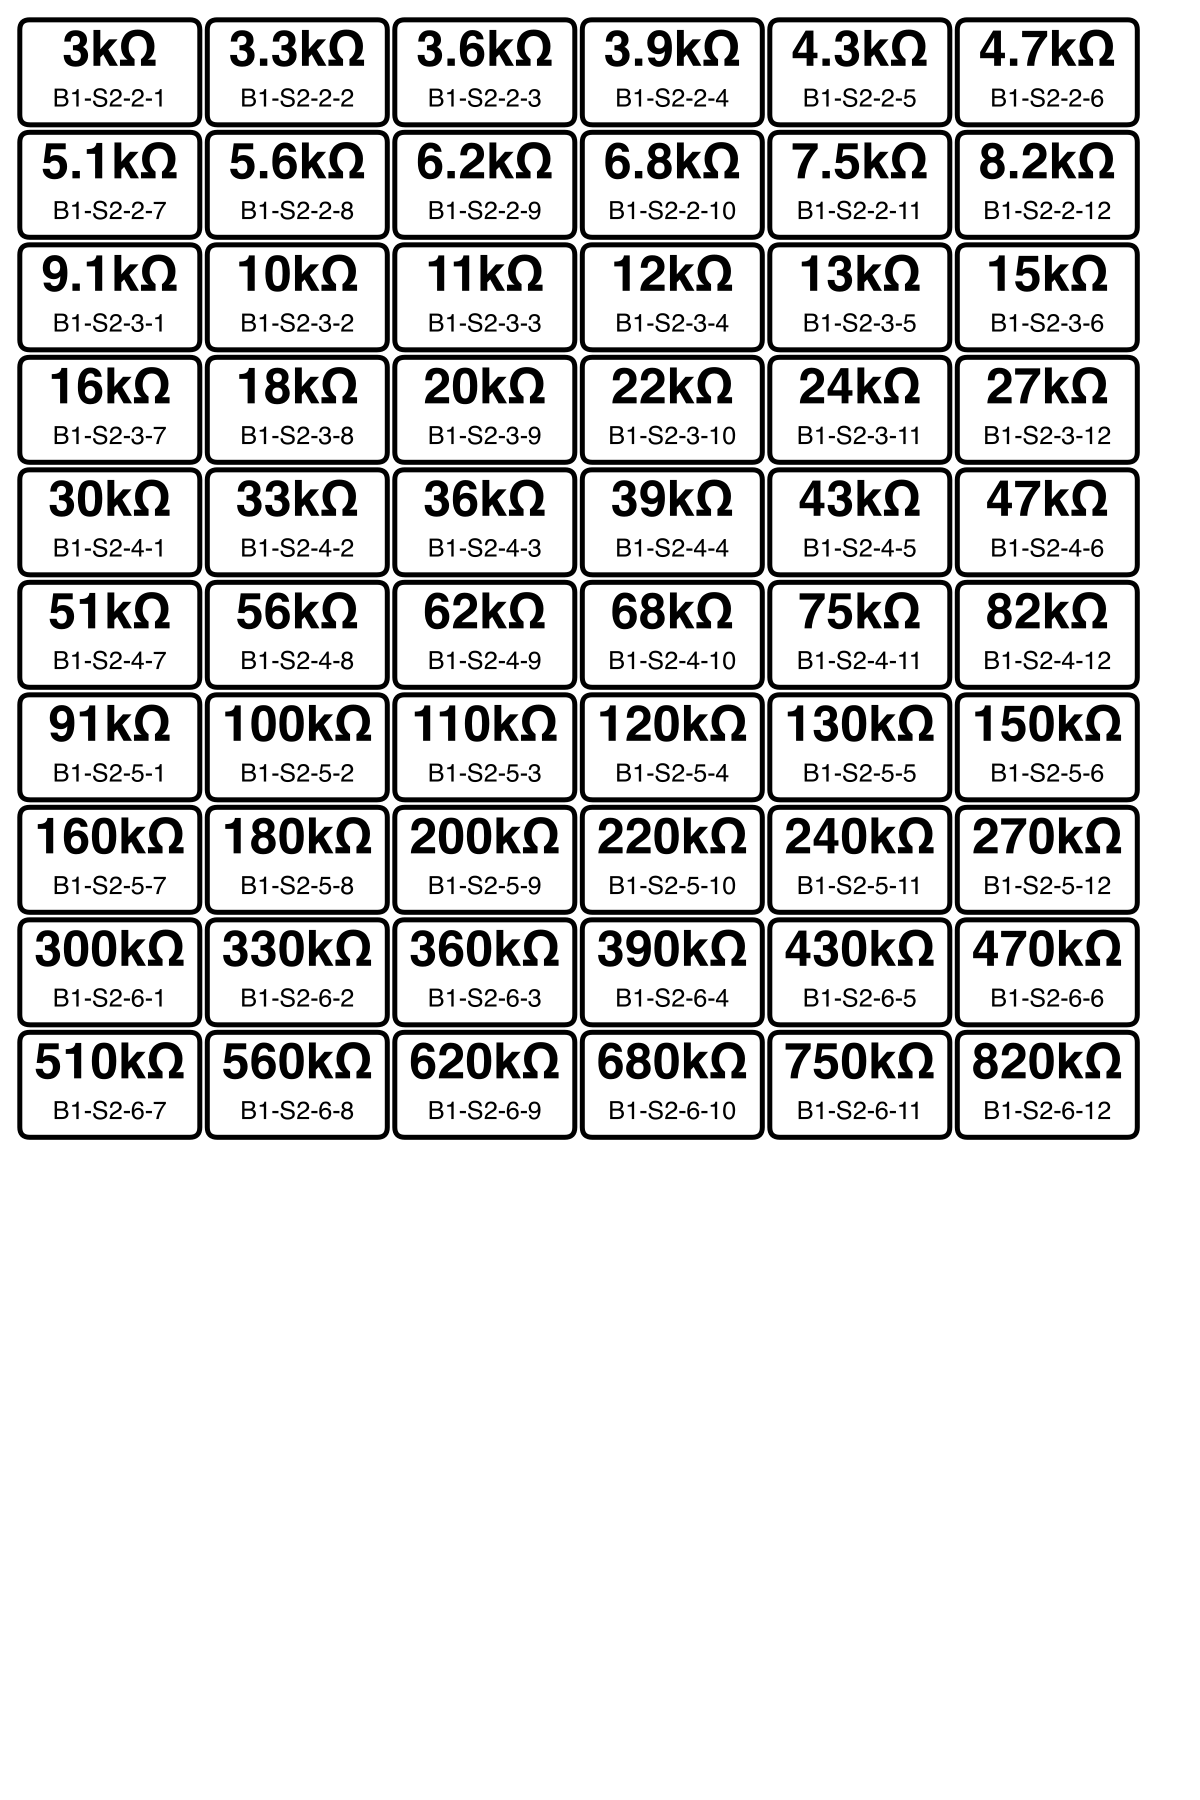
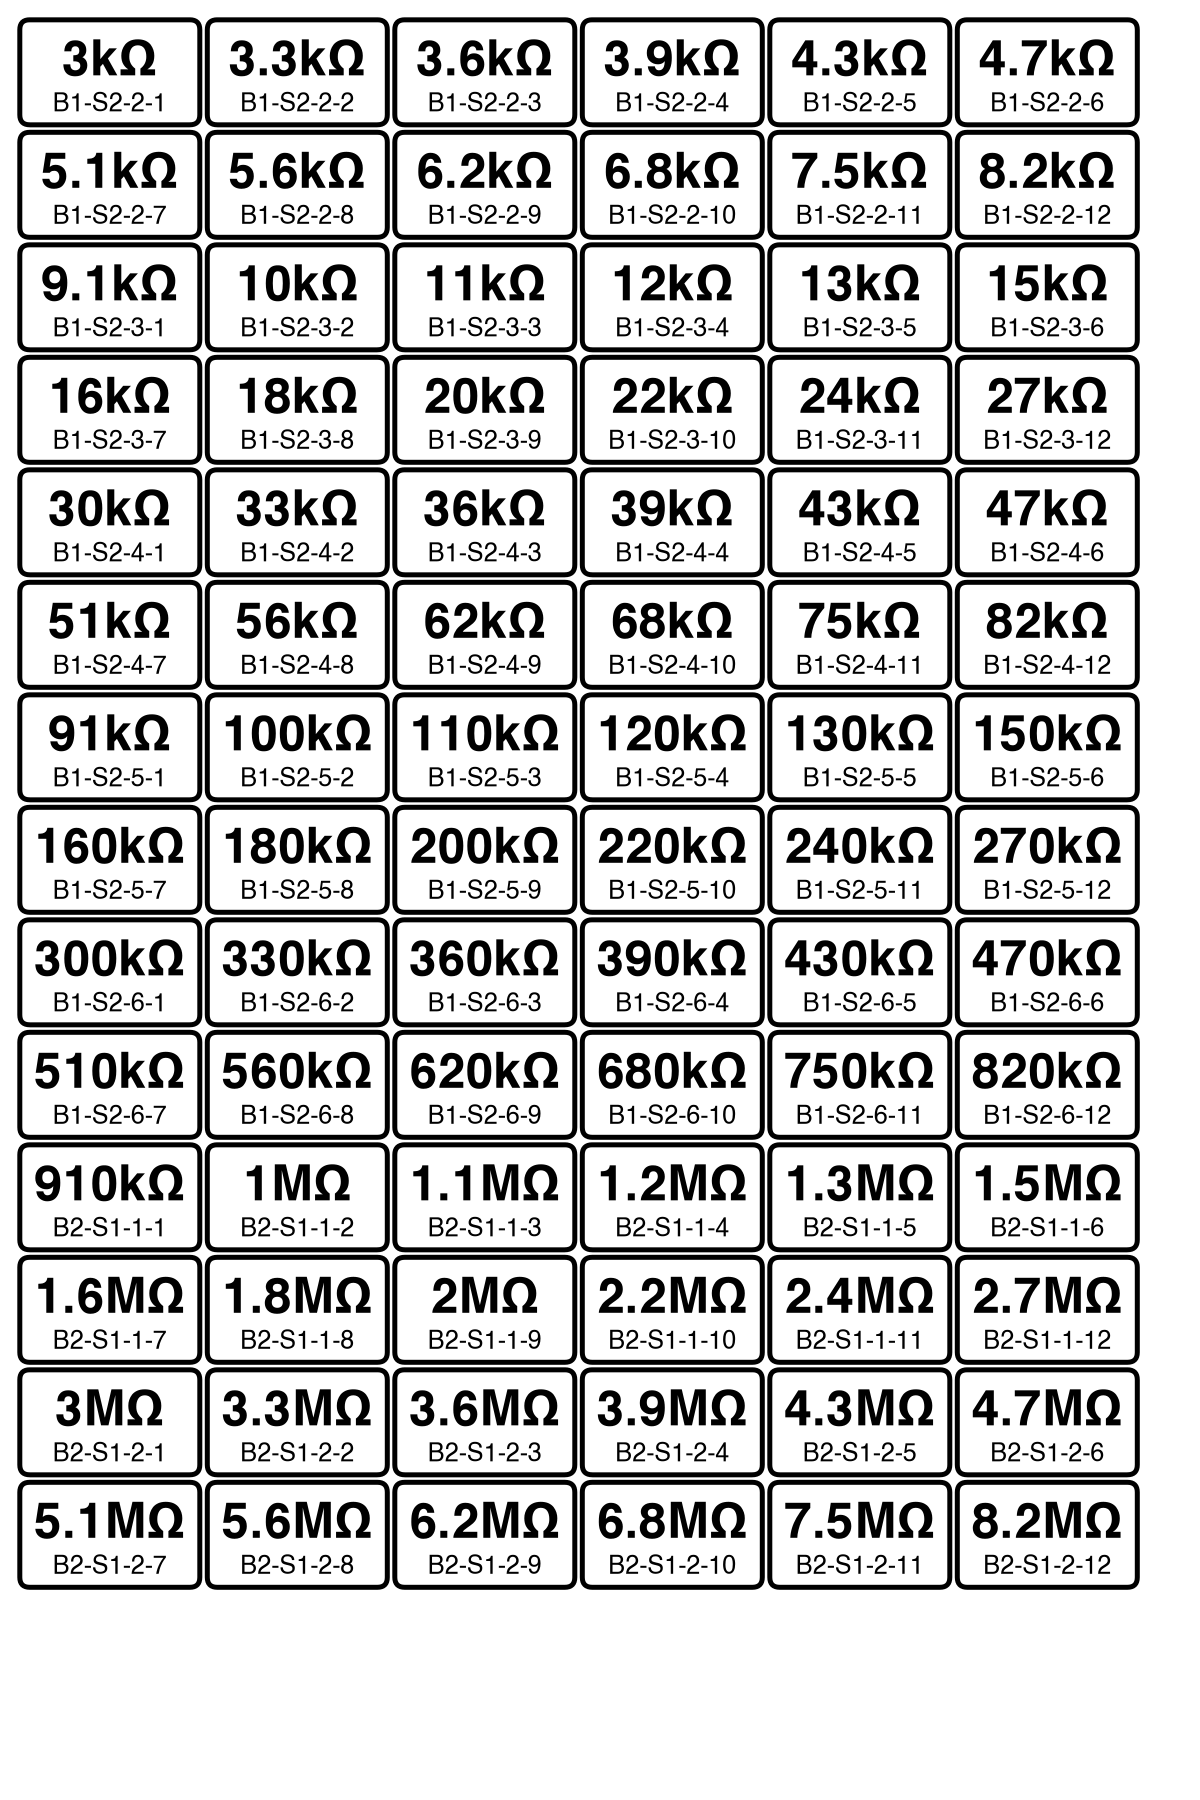
fixed bugs, added more components, added autoassign by section

Changed region(s): [[0.0, 0.0, 0.9558, 0.9022]]

diff --git a/Software/labelGeneratorV1.js b/Software/labelGeneratorV1.js
@@ -8,6 +8,8 @@
 - finish component additional asking for other types (diode etc)
 - unassign function
 - 'auto' unit selection which will convert to best possible unit choice
+- check if component is valid before writing
+- activate/deactivate boxes
 */
 
 
@@ -698,15 +700,6 @@ const groupComponentSelector = () => {
 								component.additional.tolerance = fixFloatRounding(tol);
 								component.additional.toleranceUnit = toleranceUnitsShort[idxT];
 
-								let normCapTol;
-								if (tolUnit.indexOf("%") > -1) {
-									normCapTol = normCap*(tol/100);
-								} else {
-									normCapTol = tol*toleranceMults[idxT];
-								}
-								component.additional.normalizedTolerance = fixFloatRounding(normCapTol);
-								component.additional.normalizedToleranceUnit = cDefs.units[cDefs.types.CAPACITOR].normUnit;
-
 								askN(0);
 							})
 						})	
@@ -790,6 +783,34 @@ const groupComponentSelector = () => {
 							let normCap = cap*capMults[idxC];
 							component.additional.normalizedValue = fixFloatRounding(normCap);
 							component.additional.normalizedUnit = cDefs.units[cDefs.types.CAPACITOR].normUnit;
+
+
+							let toleranceUnitsLong = [];
+							let toleranceUnitsShort = [];
+							let toleranceMults = [];
+							cDefs.units[cDefs.types.CAPACITOR].tolerance.forEach(t => {
+								toleranceUnitsLong.push(t[0]);
+								toleranceUnitsShort.push(t[1]);
+								if (typeof t[2] == "undefined") {
+									toleranceMults.push(0);
+								} else {
+									toleranceMults.push(t[2]);
+								}
+								
+							})
+
+							let tolUnit = component.additional.toleranceUnit;
+							let tol = component.additional.tolerance;
+							let idxT = toleranceUnitsLong.indexOf(tolUnit);
+
+							let normCapTol;
+							if (tolUnit.indexOf("%") > -1) {
+								normCapTol = normCap*(tol/100);
+							} else {
+								normCapTol = tol*toleranceMults[idxT];
+							}
+							component.additional.normalizedTolerance = fixFloatRounding(normCapTol);
+							component.additional.normalizedToleranceUnit = cDefs.units[cDefs.types.CAPACITOR].normUnit;
 
 							doneN(n);
 						})
@@ -1385,7 +1406,23 @@ const assignComponents = () => {
 					printBox(box);
 
 					let assignComponent = () => {
-						let methodChoices = ["AutoAssign", "Manually"];
+						let methodChoices = ["AutoAssign", "Manually", "Cancel"];
+						let sectionChoices = [];
+						for (let i=0; i<box.sections.length; i++) {
+							let sectionAvailable = false;
+							for (let j=0; j<box.sections[i].assignments.length; j++) {
+								for (let b=0; b<box.sections[i].assignments[j].length; b++) {
+									if (box.sections[i].assignments[j][b] == "") {
+										sectionAvailable = true;
+										sectionChoices.push([i, methodChoices.length]); //push index of section and index of choice
+										methodChoices.push("AutoAssign to Section "+(i+1)+" of type '"+box.sections[i].type+"'");
+										break;
+									}
+								}
+								if (sectionAvailable) break;
+							}
+							
+						}
 						inquirer.prompt({
 							name: "aSel",
 							message: "Pick assignment method",
@@ -1482,6 +1519,48 @@ const assignComponents = () => {
 										})
 									})
 								})
+							} else if (method == methodChoices[2]) { //just cancel
+								return resolve();
+							} else {
+								let methodIdx = methodChoices.indexOf(method);
+								let assigned = false;
+								for (let i=0; i<sectionChoices.length; i++) {
+									if (sectionChoices[i][1] == methodIdx) {
+										let sectionIdx = sectionChoices[i][0];
+
+										for (let j=0; j<box.sections[sectionIdx].assignments.length; j++) {
+											for (let b=0; b<box.sections[sectionIdx].assignments[j].length; b++) {
+												/*
+												Steps to assign box UUIDs
+
+												1) Put component UUID in box assignment field
+												2) Set "assigned" flag in component
+												*/
+												if (box.sections[sectionIdx].assignments[j][b] == "") {
+													store.boxes[bIdx].sections[sectionIdx].assignments[j][b] = store.components[cAssign[n][0]].uuid; //i think my brain just exploded thats a lot of variables
+													store.components[cAssign[n][0]].assigned = true;
+													console.log("AutoAssigned in section "+(sectionIdx+1)+"to row="+(j+1)+", col="+(b+1));
+
+													assigned = true;
+													break;
+												}
+											}
+											if (assigned) break;
+										}
+										if (assigned) break;
+									}
+								}
+
+								if (assigned) {
+									if (n >= cAssign.length-1) {
+										return resolve();
+									} else {
+										assignN(n+1);
+									}
+								} else {
+									console.log("Something went wrong... no free space in section? Running component again");
+									assignN(n);
+								}
 							}
 						})
 
@@ -1544,7 +1623,7 @@ const printBox = box => {
 			let printStr = "|";
 			for (let b=0; b<am[j].length; b++) {
 				if (am[j][b] == "") {
-					printStr += " EMPTY\t|";
+					printStr += "   *\t|";
 				} else {
 					let component = componentLookup(am[j][b]); //get component info
 
@@ -1764,6 +1843,22 @@ const afterMain = () => {
 			})
 		} else if (choice == mChoices[5]) {
 			console.log("\n~~~~ Storage Info ~~~");
+			console.log("Total Box Count: "+store.boxTotal);
+			if (store.boxTotal > 0) {
+				console.log("~~~~~\nBox Breakdown:");
+				//name sectionCount
+				//	sectionType: width=w, height=h
+
+				for (let i=0; i<store.boxes.length; i++) {
+					let box = store.boxes[i];
+					console.log("Box '"+box.title+"' has "+box.sections.length+" sections");
+					for (let j=0; j<box.sections.length; j++) {
+						console.log("\t"+box.sections[j].type+": W="+box.sections[j].width+", H="+box.sections[j].height);
+					}
+					printBox(box);
+					console.log("\n");
+				}
+			}
 			console.log("Total Component Count: "+store.componentTotal);
 			console.log("~~~~~\nComponent breakdown:\nType\t\tEntryCount\tComponentCount");
 			let counts = [];
@@ -1783,22 +1878,6 @@ const afterMain = () => {
 
 			for (let i=0; i<counts.length; i++) {
 				console.log(counts[i][0]+((counts[i][0].length > 7)?"\t":"\t\t")+counts[i][1]+"\t\t"+counts[i][2]); //another funky fresh oneliner from yours truly
-			}
-			console.log("\n");
-			console.log("Total Box Count: "+store.boxTotal);
-			if (store.boxTotal > 0) {
-				console.log("~~~~~\nBox Breakdown:");
-				//name sectionCount
-				//	sectionType: width=w, height=h
-
-				for (let i=0; i<store.boxes.length; i++) {
-					let box = store.boxes[i];
-					console.log("Box '"+box.title+"' has "+box.sections.length+" sections");
-					for (let j=0; j<box.sections.length; j++) {
-						console.log("\t"+box.sections[j].type+": W="+box.sections[j].width+", H="+box.sections[j].height);
-					}
-					printBox(box);
-				}
 			}
 			console.log("\n~~~~ End Storage Info ~~~~");
 
